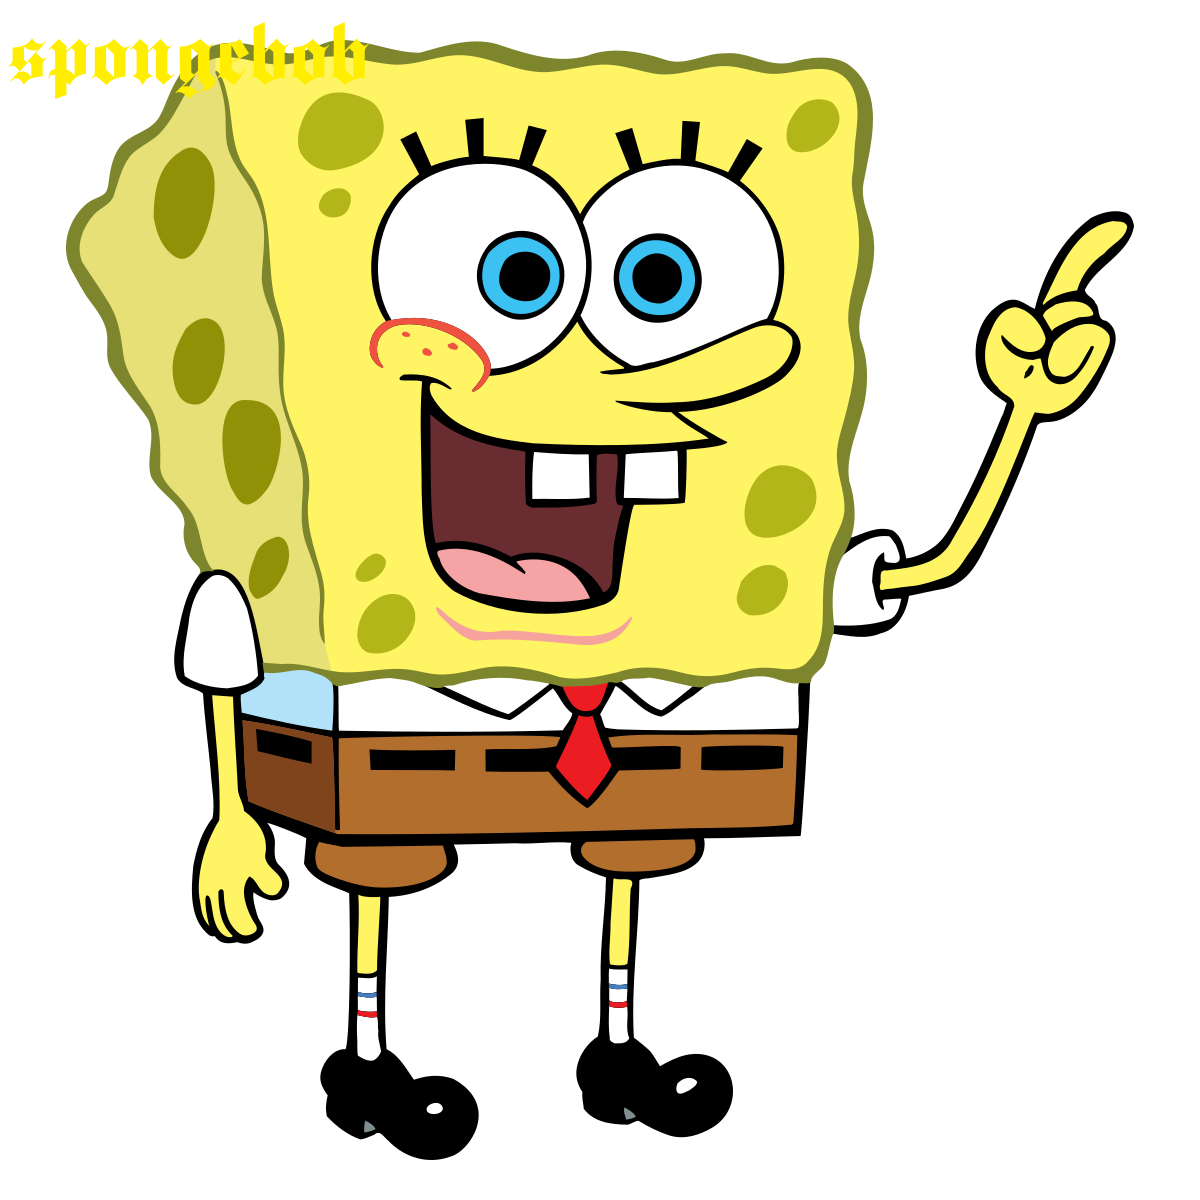
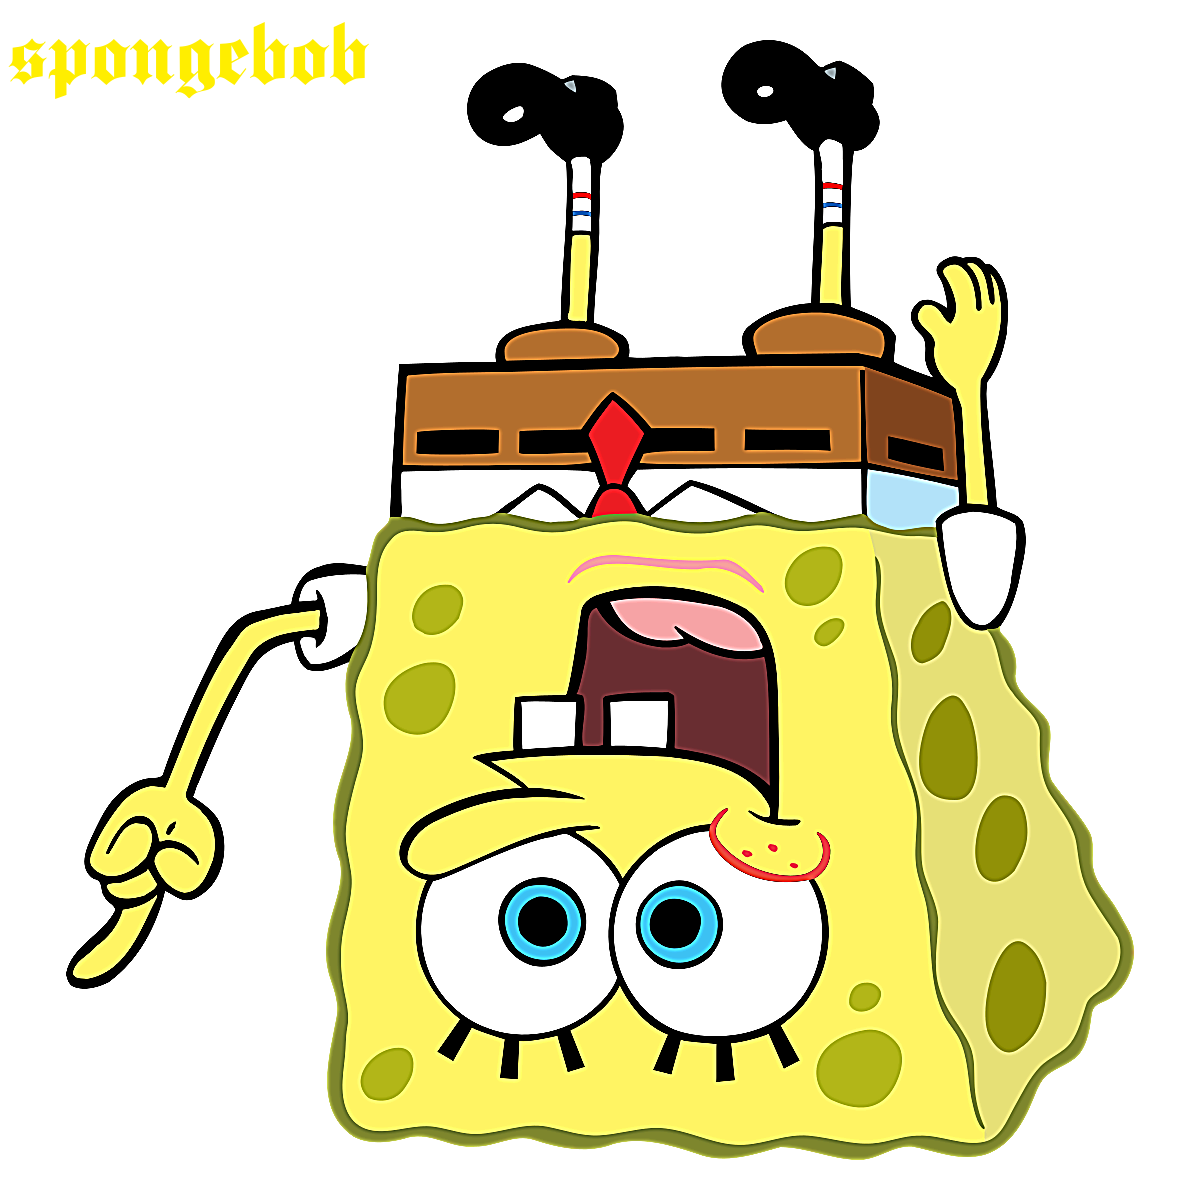
loooooh

diff --git a/automatik.py b/automatik.py
@@ -1,4 +1,5 @@
 import os
+from PIL import ImageEnhance
 from PIL import ImageFont
 from PIL import ImageDraw
 from PIL import Image
@@ -11,8 +12,26 @@ for photo_name in file_list:
     photo.close()
 print(file_list)
 im = Image.open("img.png")
+im = im.transpose(Image.ROTATE_180)
+im = im.filter(ImageFilter.UnsharpMask(radius=2,percent=150,threshold=3))
 I1 = ImageDraw.Draw(im)
 myFont = ImageFont.truetype('Deutsch Gothic.ttf', 65)
 I1.text((10, 10), "spongebob", font=myFont, fill =(255, 238, 0))
 im.show()
 im.save("img_5.png")
+im = Image.open("img_2.png")
+im = im.transpose(Image.ROTATE_180)
+im = im.filter(ImageFilter.UnsharpMask(radius=2,percent=150,threshold=3))
+I1 = ImageDraw.Draw(im)
+myFont = ImageFont.truetype('Deutsch Gothic.ttf', 40)
+I1.text((10, 10), "squidward", font=myFont, fill =(255, 238, 0))
+im.show()
+im.save("img_2.png")
+im = Image.open("img_3.png")
+im = im.transpose(Image.ROTATE_180)
+im = im.filter(ImageFilter.UnsharpMask(radius=2,percent=150,threshold=3))
+I1 = ImageDraw.Draw(im)
+myFont = ImageFont.truetype('Deutsch Gothic.ttf', 40)
+I1.text((10, 10), "patrik starr", font=myFont, fill =(255, 238, 0))
+im.show()
+im.save("img_3.png")
